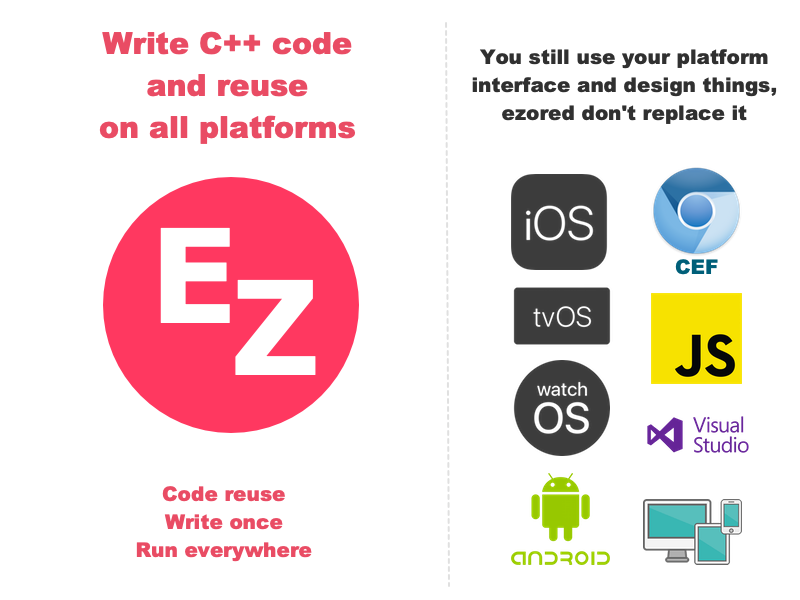
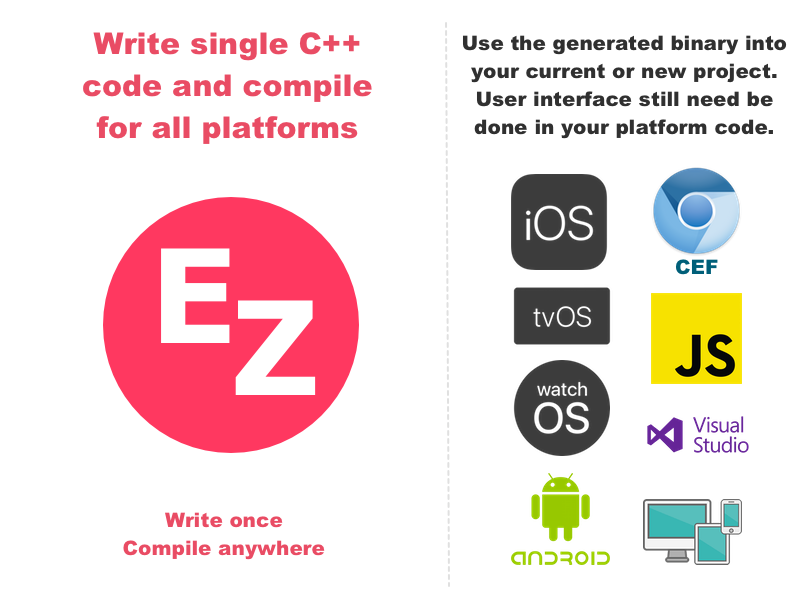
better image and texts

diff --git a/index.html b/index.html
@@ -27,7 +27,11 @@
                 ezored
             </h1>
             <h2 class="subtitle">
-                C++ boostrap toolkit for multi-platform code reuse, including mobile and desktop
+                <p>Write once. Compile anywhere.</p>
+                <br />
+                <p>C++ cross-platform development toolkit. Use the same code on mobile and desktop applications.</p>
+                <br />
+                <p>Ezored is the most convenient and fatest way to start your C++ project for mobile and desktop.</p>
             </h2>
         </div>
     </div>
@@ -41,7 +45,7 @@
 <br />
 <br />
 
-<img src="images/what-is.png?r=2019-03-20" border="0" alt="" class="what-is" style="max-width: 300px;" />
+<img src="images/what-is.png?r=2019-09-05" border="0" alt="" class="what-is" style="max-width: 300px;" />
 
 <br />
 <br />
